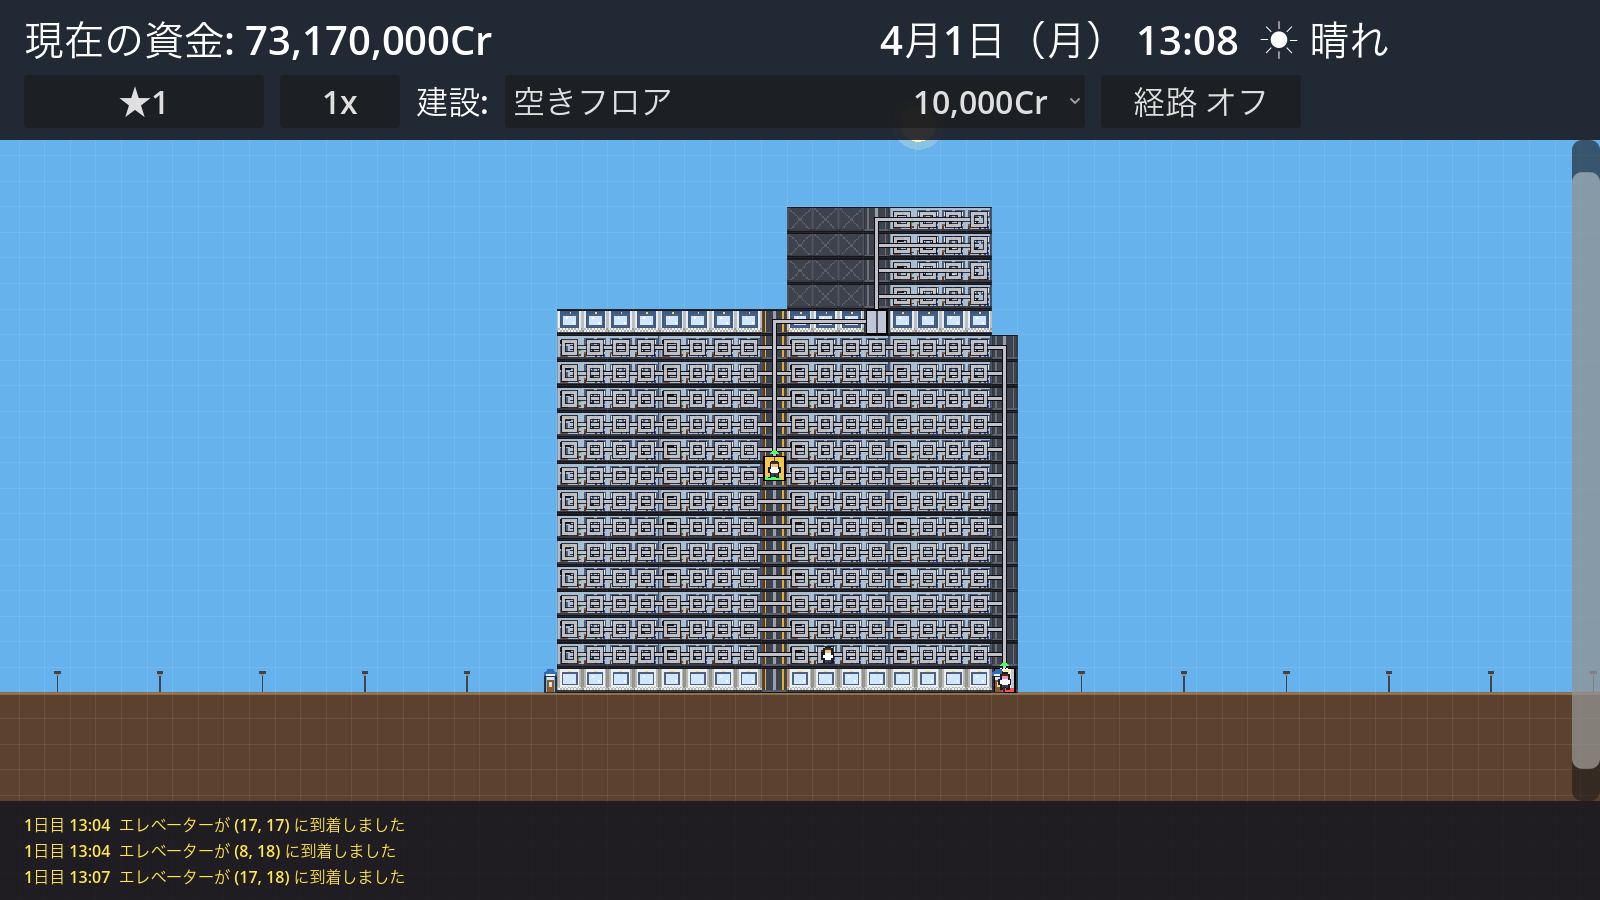
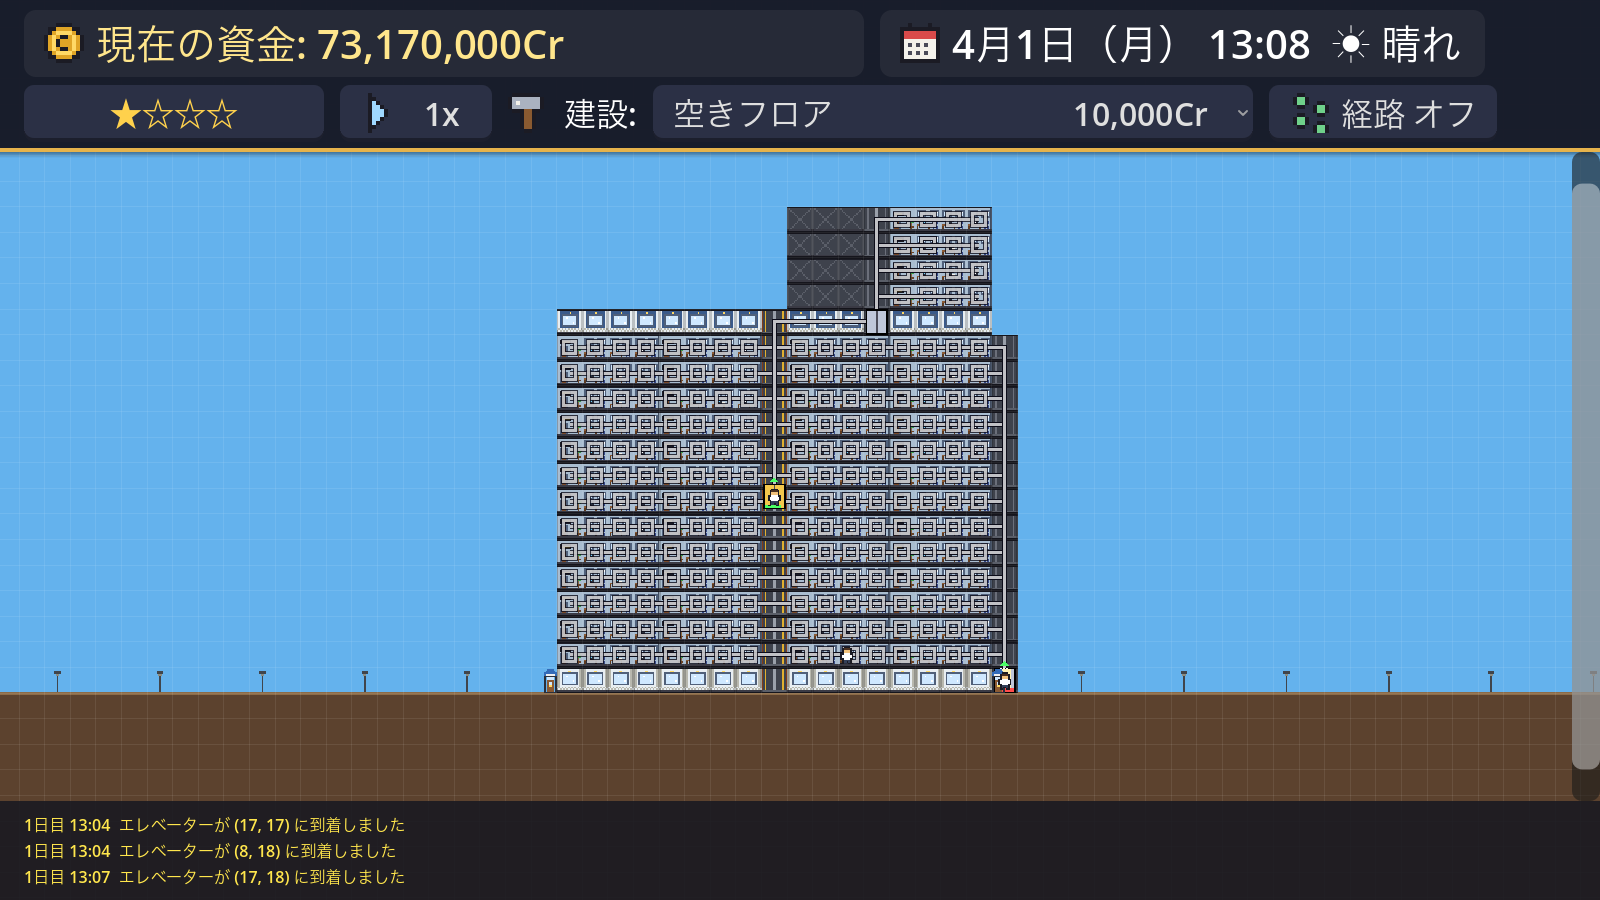
feat: 上部バーの見栄えをよくする
- 金色の縁の濃い紺のバーに、資金と日付を角丸の札で囲み、金貨・カレンダーのアイコンを付ける
- 資金は金色（マイナスは赤）、前日の収支は黒字が緑・赤字が赤
- ボタンと建設メニューを角丸の濃い色にそろえ、速さ（▶の数）・建設・経路にアイコンを付ける
- ★は星の数で見せ、注意があるときはオレンジの枠で囲む
- READMEの説明と画像を更新する

diff --git a/README.md b/README.md
@@ -124,9 +124,9 @@ godot --path . -s res://tools/generate_readme_images.gd
 
 ![★を押すと開く「ビルの状況」](docs/images/screenshots/stats_panel.png)
 
-- **上部バー（1段目）:** 資金（前日の収支）、日付・曜日・時刻、天気
+- **上部バー（1段目）:** 金貨のアイコンと資金（金色。マイナスなら赤）・前日の収支（黒字は緑、赤字は赤）、カレンダーのアイコンと日付・曜日・時刻、天気
 - **上部バー（2段目）:**
-  - **★** … ビルの評価。押すと**ビルの状況**（人口・次の★の条件・目標・社員・オフィス・客室）が開きます。気をつけることがあるときは、★の横に **⚠と件数**が出ます（怒っている人・退去しそうなテナント・通勤できない社員・衛生の悪化・ゴキブリ・火災・爆破予告）
+  - **★** … ビルの評価（塗った星が今の★の数。例: ★3 なら ★★★☆）。押すと**ビルの状況**（人口・次の★の条件・目標・社員・オフィス・客室）が開きます。気をつけることがあるときは、★の横に **⚠と件数**が出て、ボタンがオレンジの枠で囲まれます（怒っている人・退去しそうなテナント・通勤できない社員・衛生の悪化・ゴキブリ・火災・爆破予告）
   - **速度ボタン** … 押すたびに 1x → 4x → 16x
   - **建設メニュー** … 建てるものを選びます。名前と建設費が出て、くわしい説明はメニューにカーソルを合わせると出ます
   - **経路ボタン** … 人の通り道を線で出します（下記）
@@ -148,7 +148,7 @@ godot --path . -s res://tools/generate_readme_images.gd
 | 左右スクロール | Shift + マウスホイール / A・D・←・→ キー |
 | ズーム | Ctrl（⌘）+ マウスホイール / トラックパッドのピンチ |
 | カメラを動かす | トラックパッドの2本指スクロール / マウスの中ボタンでドラッグ |
-| 時間の速さ | 上部バーの★の右にある速度ボタン（押すたびに 1x → 4x → 16x → 1x と切り替わり、今の速度が出る） |
+| 時間の速さ | 上部バーの★の右にある速度ボタン（押すたびに 1x → 4x → 16x → 1x と切り替わり、今の速度と ▶ の数で速さが出る） |
 | 建てるものを選ぶ | 上部バーの「建設」メニュー（名前と建設費が出る。大きさはカーソルの枠でわかり、くわしい説明はメニューにカーソルを合わせると出る） |
 | ビルのくわしい状況 | 上部バーの★を押す（人口・次の★の条件・目標・社員・オフィス・客室。気をつけることがあるときは★の横に ⚠ と件数が出る） |
 | メニュー | 画面いちばん上のメニューバー（ファイル・表示・ゲーム・ヘルプ）。下記のほとんどの操作はここからも選べる |

diff --git a/Tasks.md b/Tasks.md
@@ -102,6 +102,7 @@
   - [x] 「住人（テスト）」は遊ぶときには建設メニューに出さない（テストのときだけ出す。main.test_tools）
   - [x] 入口がロビーの左端だけだった（右端も出入り口にする。入口は 1階の左右の出入り口・地下鉄駅・地下駐車場 の4種類）
   - [x] ゲームに関係しないが飽きさせない、空のイベント（昼は飛行機・鳥・気球、雨上がりの虹、夜は流れ星・ロケット・UFO、夏の休日の花火）
+  - [x] 上部バーがシンプルすぎる（金色の縁のバーに、資金と日付を角丸の札で囲み、ドット絵のアイコンを付ける。前日の収支は黒字が緑・赤字が赤、★は星の数で見せ、注意があるときはオレンジの枠）
 
 ### 新しい要素
 - [x] 屋上庭園（屋上に建てられる憩いの場。ストレスが回復し、騒音もやわらぐ）
